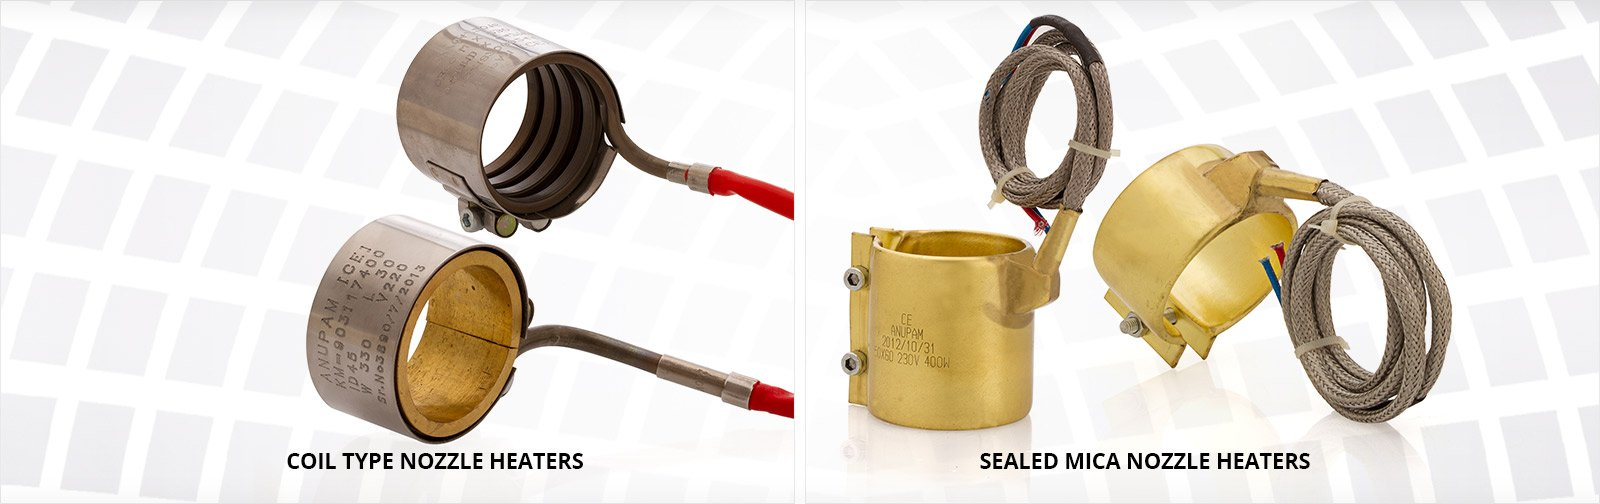
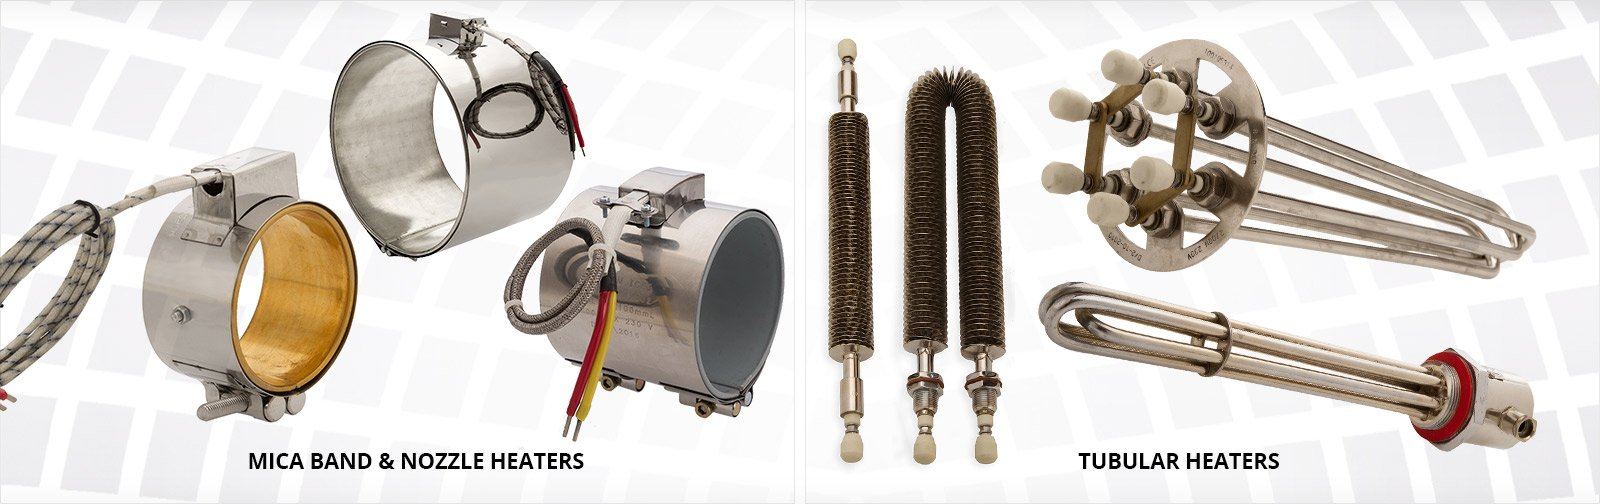
Update homepage slider images and trim flexible tubular work examples.

diff --git a/flexible-tubular-heaters.html b/flexible-tubular-heaters.html
@@ -747,18 +747,6 @@ height="0" width="0" style="display:none;visibility:hidden"></iframe></noscript>
 			<div id="portfolio">
 			   <div class="tab-content center-text images-border">
 				<div class="row1">
-                  <div class="aplc-imgarea">
-                    <div class="row1-img"><a href="images/flexible-tubular-work-examples1-big.jpg"><img src="images/flexible-tubular-work-examples1.jpg" class="img1" alt="" title="" /></a></div>
-                  </div>
-				  <div class="aplc-imgarea">
-                    <div class="row1-img"><a href="images/flexible-tubular-work-examples2-big.jpg"><img src="images/flexible-tubular-work-examples2.jpg" class="img1" alt="" title="" /></a></div>
-                  </div>
-				  <div class="aplc-imgarea">
-                    <div class="row1-img"><a href="images/flexible-tubular-work-examples3-big.jpg"><img src="images/flexible-tubular-work-examples3.jpg" class="img1" alt="" title="" /></a></div>
-                  </div>
-				  <div class="aplc-imgarea">
-                    <div class="row1-img"><a href="images/flexible-tubular-work-examples4-big.jpg"><img src="images/flexible-tubular-work-examples4.jpg" class="img1" alt="" title="" /></a></div>
-                  </div>
 				  <div class="aplc-imgarea">
                     <div class="row1-img"><a href="images/flexible-tubular-work-examples5-big.jpg"><img src="images/flexible-tubular-work-examples5.jpg" class="img1" alt="" title="" /></a></div>
                   </div>